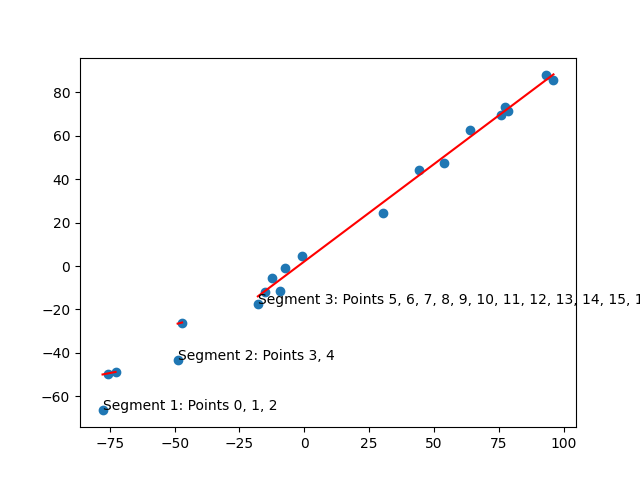
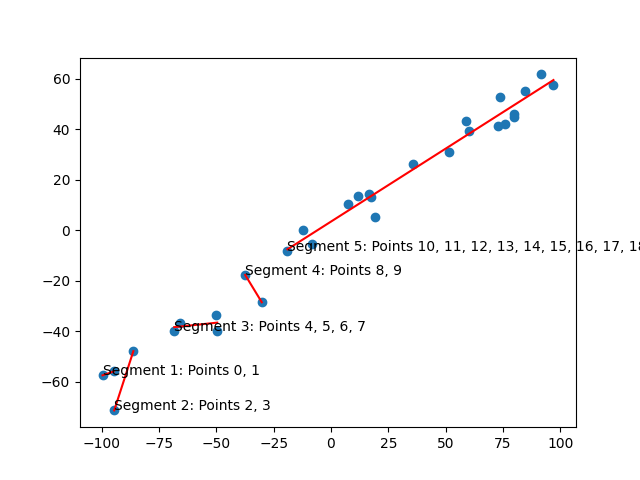
bug fixes

diff --git a/Q2/doxygen/html/class_point-members.html b/Q2/doxygen/html/class_point-members.html
@@ -75,7 +75,7 @@ $(function() {
 
 <p>This is the complete list of members for <a class="el" href="class_point.html">Point</a>, including all inherited members.</p>
 <table class="directory">
-  <tr class="even"><td class="entry"><a class="el" href="class_point.html#a810fc4436b6631341363abfedbd6bb97">Point</a>(int a, int b)</td><td class="entry"><a class="el" href="class_point.html">Point</a></td><td class="entry"></td></tr>
+  <tr class="even"><td class="entry"><a class="el" href="class_point.html#a810fc4436b6631341363abfedbd6bb97">Point</a>(double a, double b)</td><td class="entry"><a class="el" href="class_point.html">Point</a></td><td class="entry"></td></tr>
   <tr bgcolor="#f0f0f0" class="odd"><td class="entry"><b>x</b> (defined in <a class="el" href="class_point.html">Point</a>)</td><td class="entry"><a class="el" href="class_point.html">Point</a></td><td class="entry"></td></tr>
   <tr bgcolor="#f0f0f0" class="even"><td class="entry"><b>y</b> (defined in <a class="el" href="class_point.html">Point</a>)</td><td class="entry"><a class="el" href="class_point.html">Point</a></td><td class="entry"></td></tr>
 </table></div><!-- contents -->

diff --git a/Q2/doxygen/html/class_point.html b/Q2/doxygen/html/class_point.html
@@ -77,7 +77,7 @@ $(function() {
 </div><!--header-->
 <div class="contents">
 
-<p>A class representing a 2D point with integer coordinates.  
+<p>A class representing a 2D point with floating coordinates.  
  <a href="class_point.html#details">More...</a></p>
 
 <p><code>#include &lt;<a class="el" href="_point_8hpp_source.html">Point.hpp</a>&gt;</code></p>
@@ -109,13 +109,13 @@ int&#160;</td><td class="memItemRight" valign="bottom"><b>y</b></td></tr>
         <tr>
           <td class="memname">Point::Point </td>
           <td>(</td>
-          <td class="paramtype">int&#160;</td>
+          <td class="paramtype">double&#160;</td>
           <td class="paramname"><em>a</em>, </td>
         </tr>
         <tr>
           <td class="paramkey"></td>
           <td></td>
-          <td class="paramtype">int&#160;</td>
+          <td class="paramtype">double&#160;</td>
           <td class="paramname"><em>b</em>&#160;</td>
         </tr>
         <tr>

diff --git a/Q2/src/Algorithm.cpp b/Q2/src/Algorithm.cpp
@@ -73,11 +73,11 @@ void Algorithm::printSolution()
 {
     if (solved == 0)
         constructSolution();
-    printf("\nCost of the optimal solution : %Lf\n", opt[numPoints]);
+    printf("\nCost of the optimal solution : %f\n", opt[numPoints]);
     printf("\nAn optimal solution :\n");
     for (int i = 0; i < numSegments; i++)
     {
-        printf("Segment (y = %Lf * x + %Lf) from points %d to %d with square error %Lf.\n",
+        printf("Segment y = %f * x + %f from points %d to %d with square error %f.\n",
                results[i].first, results[i].second, startSegment[i], endSegment[i], errors[i]);
     }
 }

diff --git a/Q2/include/Algorithm.hpp b/Q2/include/Algorithm.hpp
@@ -14,7 +14,6 @@
 
 #define N 1005
 #define MAX numeric_limits<double>::infinity()
-#define double long double
 
 using namespace std;
 
@@ -27,7 +26,7 @@ using namespace std;
 class Algorithm
 {
 private:
-    int preX[N], preY[N], preXY[N], preXsqr[N];
+    double preX[N], preY[N], preXY[N], preXsqr[N];
     double m[N][N], c[N][N], E[N][N], opt[N], optSeg[N];
     vector<pair<double, double>> results;
     vector<int> startSegment, endSegment;

diff --git a/Q2/include/Point.hpp b/Q2/include/Point.hpp
@@ -10,13 +10,13 @@
 
 @class Point
 
-@brief A class representing a 2D point with integer coordinates.
+@brief A class representing a 2D point with double coordinates.
 */
 class Point
 {
 private:
 public:
-    int x, y;
+    double x, y;
 
     /**
 
@@ -24,6 +24,6 @@ public:
     @param a The x-coordinate of the point.
     @param b The y-coordinate of the point.
     */
-    Point(int a, int b);
+    Point(double a, double b);
 };
 #endif

diff --git a/Q2/scripts/pointsgenerator.py b/Q2/scripts/pointsgenerator.py
@@ -20,9 +20,9 @@ def generate_points(n):
     return points
 
 
-points = generate_points(20)
+points = generate_points(30)
 with open(file_input, "w") as f:
-    f.write(str(20) + "\n")
+    f.write(str(30) + "\n")
     for x, y in points:
         f.write(f"{x} {y}\n")
-    f.write(str(random.randint(0, 100)))
+    f.write(str(random.randint(80, 300)))

diff --git a/Q2/src/Point.cpp b/Q2/src/Point.cpp
@@ -10,7 +10,7 @@
  * @param a The x coordinate of the point
  * @param b The y coordinate of the point
  */
-Point::Point(int a, int b)
+Point::Point(double a, double b)
 {
     x = a, y = b;
 }
